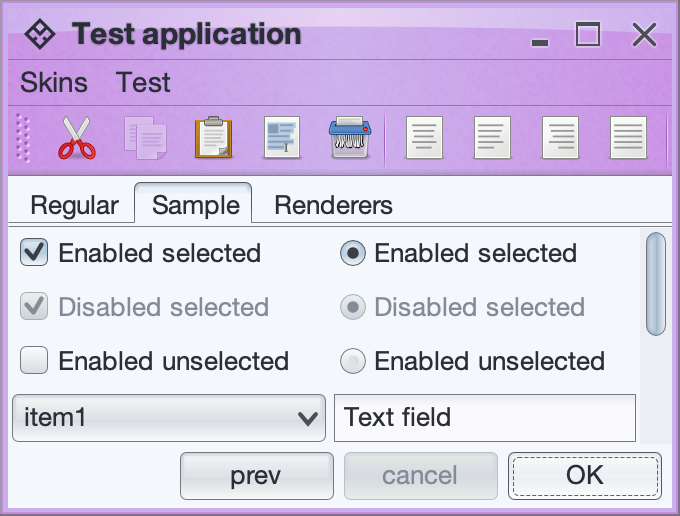
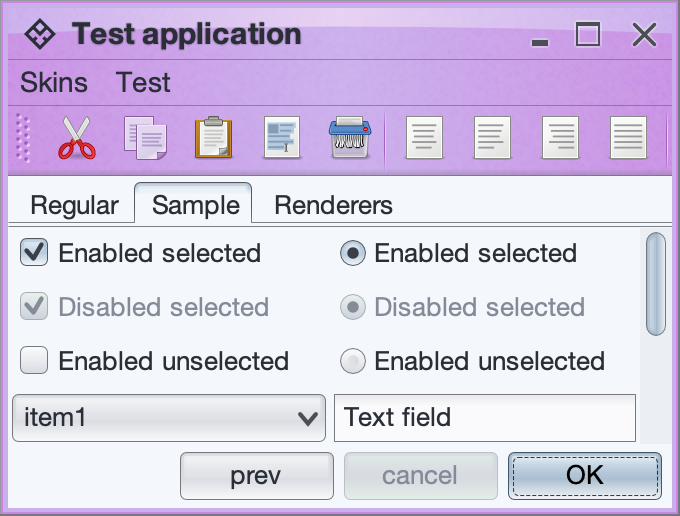
Tweak disabled visuals on toolbars under Nebula Amethyst skin
Also update Zodiac scripts with the latest supported Kotlin and coroutines versions

Changed region(s): [[0.7412, 0.8682, 0.9882, 0.9612], [0.1853, 0.2171, 0.2471, 0.3101]]

diff --git a/substance/src/main/java/org/pushingpixels/substance/api/skin/NebulaAmethystSkin.java b/substance/src/main/java/org/pushingpixels/substance/api/skin/NebulaAmethystSkin.java
@@ -31,6 +31,7 @@ package org.pushingpixels.substance.api.skin;
 
 import org.pushingpixels.substance.api.ComponentState;
 import org.pushingpixels.substance.api.SubstanceColorSchemeBundle;
+import org.pushingpixels.substance.api.SubstanceSkin;
 import org.pushingpixels.substance.api.SubstanceSlices;
 import org.pushingpixels.substance.api.SubstanceSlices.DecorationAreaType;
 import org.pushingpixels.substance.api.colorscheme.PurpleColorScheme;
@@ -54,6 +55,10 @@ public class NebulaAmethystSkin extends NebulaAccentedSkin {
 	public NebulaAmethystSkin() {
 		super(new AccentBuilder().withWindowChromeAccent(new PurpleColorScheme()));
 
+		ColorSchemes schemes = SubstanceSkin.getColorSchemes(
+				this.getClass().getClassLoader().getResourceAsStream(
+						"org/pushingpixels/substance/api/skin/nebula.colorschemes"));
+
 		// Also apply the window chrome accent color on the TOOLBAR area
 		SubstanceColorScheme windowChromeAccent = this.getWindowChromeAccent();
 		this.registerAsDecorationArea(windowChromeAccent, DecorationAreaType.TOOLBAR);
@@ -62,8 +67,9 @@ public class NebulaAmethystSkin extends NebulaAccentedSkin {
 		this.addOverlayPainter(this.bottomLineOverlayPainter, DecorationAreaType.TOOLBAR);
 
 		SubstanceColorSchemeBundle toolbarBundle = new SubstanceColorSchemeBundle(
-				windowChromeAccent.saturate(0.1f), windowChromeAccent, windowChromeAccent);
-		toolbarBundle.registerAlpha(0.5f, ComponentState.DISABLED_SELECTED,
+				windowChromeAccent.saturate(0.1f), windowChromeAccent,
+				schemes.get("Nebula Amethyst Title Disabled"));
+		toolbarBundle.registerAlpha(0.8f, ComponentState.DISABLED_SELECTED,
 				ComponentState.DISABLED_UNSELECTED);
 		toolbarBundle.registerColorScheme(windowChromeAccent.saturate(0.08f),
 				SubstanceSlices.ColorSchemeAssociationKind.SEPARATOR);
